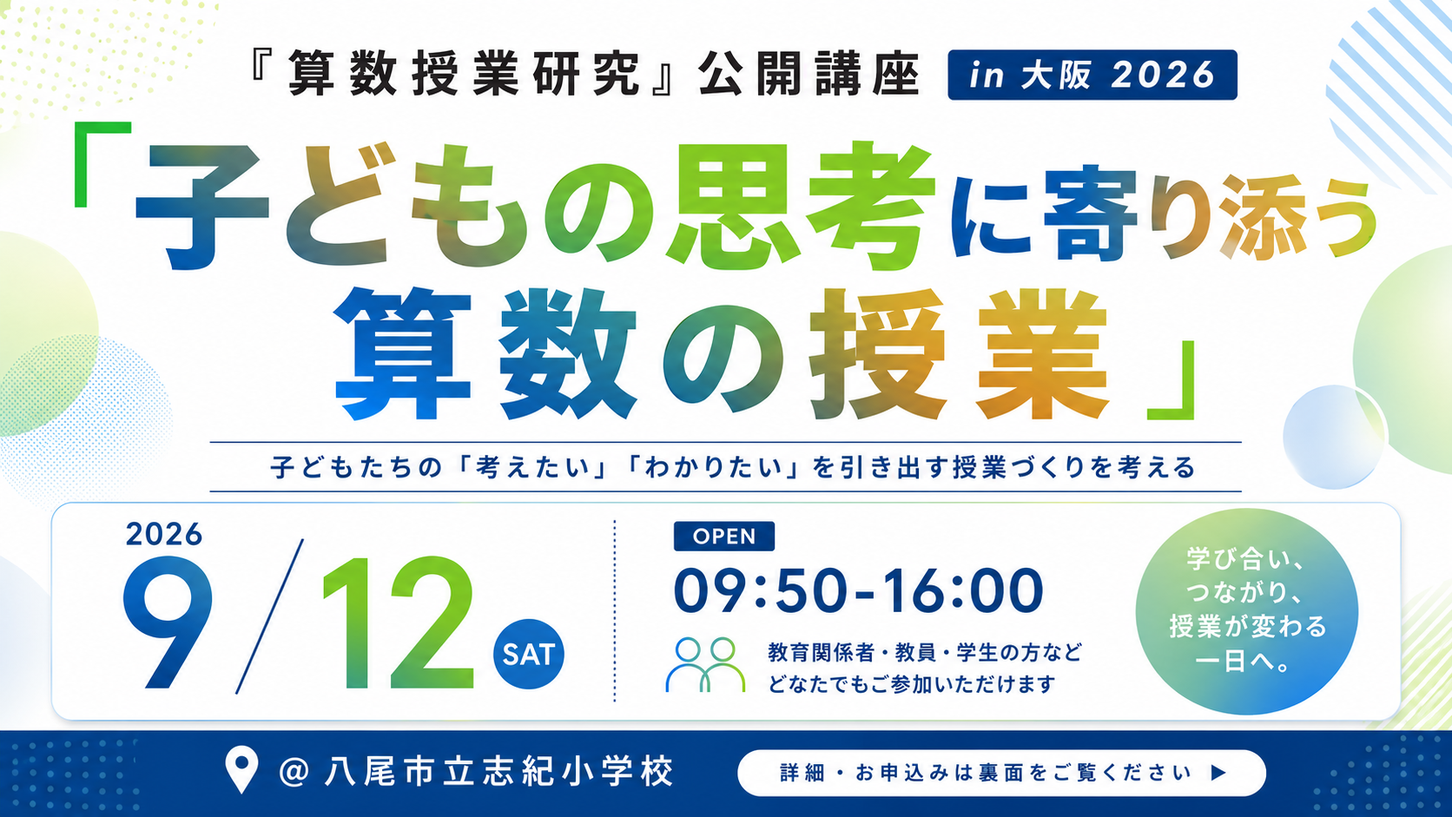
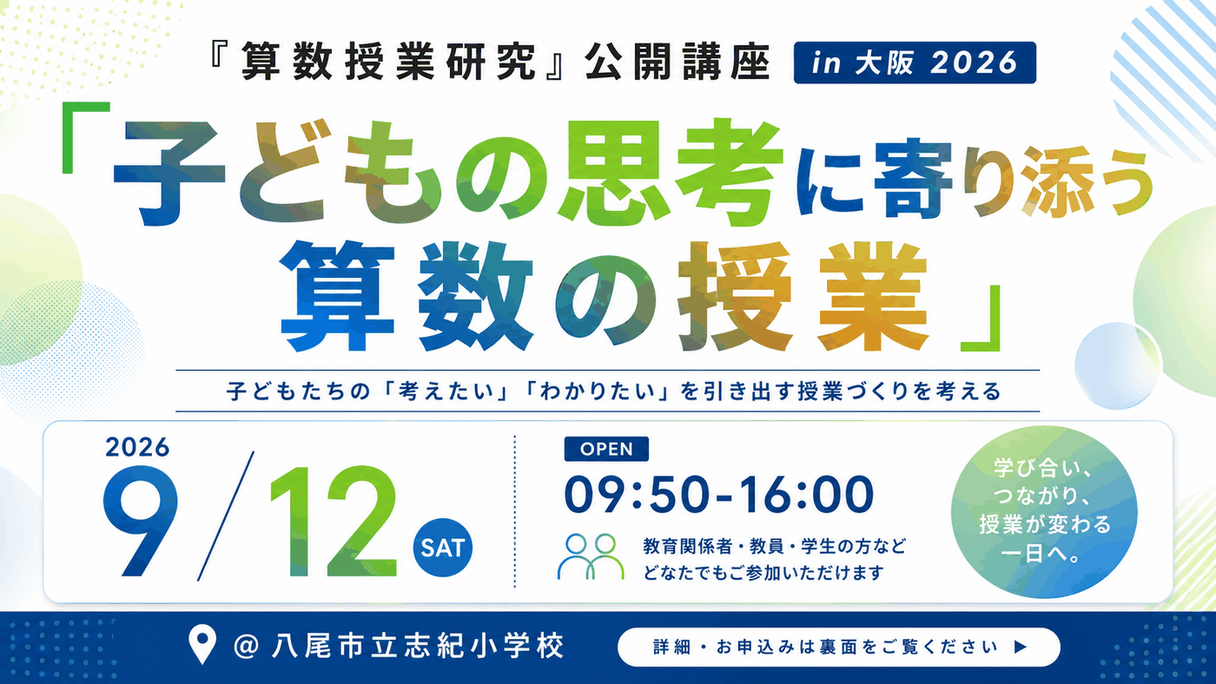
弱電波の会場向け読み込み改善（1）画像と外部リソース (#62)

diff --git a/index.html b/index.html
@@ -49,11 +49,26 @@
   <meta name="apple-mobile-web-app-capable" content="yes" />
   <meta name="apple-mobile-web-app-status-bar-style" content="black-translucent" />
 
-  <!-- Webフォント（Zen Kaku Gothic New）。SWでキャッシュしオフライン時はシステムフォントに劣化 -->
+  <!-- 会場の細い回線では DNS＋TCP＋TLS の確立がいちばん高くつくので、
+       あとで必ず使うホストは先に繋いでおく。preconnect は同時に張りすぎると逆効果なので、
+       描画をブロックする 2 ホスト（フォント CSS と Tailwind）だけに使い、
+       画像ホスト（favicon・書影）は軽い dns-prefetch に留める。 -->
   <link rel="preconnect" href="https://fonts.googleapis.com" />
   <link rel="preconnect" href="https://fonts.gstatic.com" crossorigin />
-  <!-- DotGothic16 はマスコットの吹き出し専用（ドット絵と粒を合わせるため）。本文は Zen Kaku Gothic New -->
-  <link href="https://fonts.googleapis.com/css2?family=Zen+Kaku+Gothic+New:wght@400;500;700;900&family=DotGothic16&display=swap" rel="stylesheet" />
+  <link rel="preconnect" href="https://cdn.tailwindcss.com" />
+  <link rel="dns-prefetch" href="https://www.toyokan.co.jp" />
+  <link rel="dns-prefetch" href="https://m.media-amazon.com" />
+  <link rel="dns-prefetch" href="https://images-na.ssl-images-amazon.com" />
+
+  <!-- Webフォント（Zen Kaku Gothic New）。SWでキャッシュしオフライン時はシステムフォントに劣化。
+       DotGothic16 はマスコットの吹き出し専用（ドット絵と粒を合わせるため）。本文は Zen Kaku Gothic New。
+       media="print" → onload で all に戻すのは「描画をブロックさせない」ための定石。
+       display=swap があるので本文はシステムフォントで即出て、届いた時点で差し替わる。 -->
+  <link rel="stylesheet" media="print" onload="this.media='all'"
+    href="https://fonts.googleapis.com/css2?family=Zen+Kaku+Gothic+New:wght@400;500;700;900&family=DotGothic16&display=swap" />
+  <noscript>
+    <link rel="stylesheet" href="https://fonts.googleapis.com/css2?family=Zen+Kaku+Gothic+New:wght@400;500;700;900&family=DotGothic16&display=swap" />
+  </noscript>
 
   <!-- Tailwind CSS (Play CDN) — 要件によりCDN読込。SWでキャッシュしオフライン対応 -->
   <script src="https://cdn.tailwindcss.com/3.4.17"></script>
@@ -627,7 +642,7 @@
       <div>
         <h3 class="text-sm font-semibold text-slate-600 mb-2">会場マップ</h3>
         <div class="bg-white border border-slate-200/80 rounded-2xl overflow-hidden shadow-card">
-          <img id="venueMap" alt="会場マップ" class="w-full" />
+          <img id="venueMap" alt="会場マップ" loading="lazy" decoding="async" class="w-full" />
           <p id="venueNote" class="text-xs text-slate-600 p-3 leading-relaxed"></p>
         </div>
       </div>
@@ -1091,6 +1106,41 @@
       } catch (e) {
         return "#";
       }
+    };
+    // 書影を表示枠に見合った小さい派生画像へ向け直す。
+    // JSON にはフルサイズ（1200px 幅・_SL1500_ 等）の URL が入っているが、実際の表示枠は
+    // 64×96 CSS px しかない。会場の細い回線では、これが 20 枚以上並ぶと支配的なコストになる。
+    // JSON は書き換えず描画時に付け替えるので、既存・将来のイベント全部に効く。
+    // 未知のホストや想定外の形は**そのまま返す**（外部 CDN の仕様に賭けない）。
+    // 派生 URL が 404 のときは renderBooks() が元の URL で一度だけ retry する。
+    const coverUrl = (url, px) => {
+      const s = typeof url === "string" ? url.trim() : "";
+      if (!s) return s;
+      try {
+        const u = new URL(s, location.href);
+        // Shopify（東洋館出版社のストア）: ?width= で任意サイズを配ってくれる
+        if (u.hostname.endsWith("toyokan.co.jp") && u.searchParams.has("width")) {
+          if (Number(u.searchParams.get("width")) <= px) return s;
+          u.searchParams.set("width", String(px));
+          return u.href;
+        }
+        // Amazon 現行形式: /images/I/<id>._SL1500_.jpg の SL の数値が最長辺
+        if (u.hostname === "m.media-amazon.com") {
+          const p = u.pathname.replace(/\._SL\d+_\.(jpg|jpeg|png)$/i, `._SL${px}_.$1`);
+          if (p === u.pathname) return s;
+          u.pathname = p;
+          return u.href;
+        }
+        // Amazon 旧形式: /images/P/<isbn>.09.LZZZZZZZ.jpg（L=大 / M=中 / T=小）。
+        // 数値指定はできないので中サイズ（約160px）に落とす。
+        if (u.hostname === "images-na.ssl-images-amazon.com") {
+          const p = u.pathname.replace(/\.LZZZZZZZ\.(jpg|jpeg|png)$/i, ".MZZZZZZZ.$1");
+          if (p === u.pathname) return s;
+          u.pathname = p;
+          return u.href;
+        }
+      } catch (e) {}
+      return s;
     };
     // テーマを「メインテーマ―サブテーマ」の区切りで分割する（区切りが無ければ sub は空）。
     // 区切り記号はサブテーマ側の先頭に残す（原文の表記をそのまま活かすため）
@@ -2119,11 +2169,24 @@
           `</div>`;
         if (cover) {
           const img = el("img", "img-fade w-16 h-24 object-cover rounded-lg flex-shrink-0 ring-1 ring-slate-200");
-          img.src = safeUrl(cover);
+          const full = safeUrl(cover);
+          // 表示は 64×96 なので DPR3 でも 192px あれば足りる。240 で少し余裕を持たせる
+          img.src = coverUrl(full, 240);
           img.alt = "";
           img.loading = "lazy";
+          // Tailwind のクラスでも枠は取れるが、CSS が届く前のレイアウトシフトを防ぐため属性でも持つ
+          img.width = 64;
+          img.height = 96;
           img.addEventListener("load", () => img.classList.add("is-loaded"));
-          img.addEventListener("error", () => { img.outerHTML = placeholder; });
+          img.addEventListener("error", () => {
+            // 縮小版が無い／仕様が変わった場合に備え、元の URL で一度だけやり直してから諦める
+            if (img.src !== full && !img.dataset.retried) {
+              img.dataset.retried = "1";
+              img.src = full;
+              return;
+            }
+            img.outerHTML = placeholder;
+          });
           // キャッシュ済みで load が発火しない場合に備え即時判定
           if (img.complete && img.naturalWidth > 0) img.classList.add("is-loaded");
           card.insertAdjacentElement("afterbegin", img);
@@ -2191,7 +2254,10 @@
       const rows = [];
       if (image) {
         rows.push(
-          `<img src="${escapeHtml(safeUrl(image))}" alt="${escapeHtml(title)}" loading="lazy" class="w-full max-h-72 object-cover" style="object-position:50% 18%" onerror="this.remove()" />`
+          // aspect-[2/1] で先に高さを確保する。width/height 属性は使えない——バナーの実寸は
+          // イベントごとに違い（1400×685 と 1400×788）、汎用シェルに固有の数値は持てないため。
+          // 比率を固定しておけば画像が届く前に箱が決まり、下の本文が飛ばない（object-cover で収める）。
+          `<img src="${escapeHtml(safeUrl(image))}" alt="${escapeHtml(title)}" loading="lazy" decoding="async" class="w-full aspect-[2/1] max-h-72 object-cover" style="object-position:50% 18%" onerror="this.remove()" />`
         );
       }
       const body = [];

diff --git a/sw.js b/sw.js
@@ -10,7 +10,7 @@
  * 注意: アプリのロジック更新時は CACHE_VERSION を上げること。
  */
 
-const CACHE_VERSION = "v104";
+const CACHE_VERSION = "v105";
 const CACHE_NAME = `t-pod-${CACHE_VERSION}`;
 
 // 16進カラー（#rgb / #rgba / #rrggbb / #rrggbbaa）判定

diff --git a/scripts/optimize_images.py b/scripts/optimize_images.py
@@ -1,0 +1,145 @@
+#!/usr/bin/env python3
+"""次回イベントバナーを配信向けに軽量化する。
+
+会場の細い回線で開かれる前提のサイト（README 参照）なので、告知バナーのような
+大きな画像は「表示枠に必要なだけ」の解像度に落としてから配信する。
+
+対象と方針は TARGETS で宣言する。生成物はリポジトリにコミットするので
+（`build_fuseneko.py` と同じ作法）、元画像を差し替えたらこのスクリプトを
+実行し直すこと。
+
+  python3 scripts/optimize_images.py           # 生成して差分を報告
+  python3 scripts/optimize_images.py --check   # 生成せず、要更新かどうかだけ見る（CI 向け）
+
+なぜ 2 通りの出力先があるか:
+  - webp: 現行イベント。JSON の image を .webp に向けられるので最小サイズを取れる。
+  - png : 終了済みイベント。JSON を編集しない規約（CLAUDE.md）なので、
+          ファイル名と拡張子を保ったまま中身だけ軽くする。
+"""
+
+from __future__ import annotations
+
+import argparse
+import sys
+from pathlib import Path
+
+try:
+    from PIL import Image
+except ModuleNotFoundError as exc:  # pragma: no cover - 実行環境の問題
+    raise SystemExit(
+        "Pillow が必要です。python -m pip install -r requirements-tools.txt を実行してください。"
+    ) from exc
+
+try:  # Windows の cp932 端末でも UTF-8 で出力する
+    sys.stdout.reconfigure(encoding="utf-8")
+    sys.stderr.reconfigure(encoding="utf-8")
+except (AttributeError, ValueError):
+    pass
+
+ROOT = Path(__file__).resolve().parents[1]
+
+# 表示枠は index.html の `w-full max-h-72 object-cover`。本文の最大幅が 672px なので
+# DPR3 でも 2016px あれば足りるが、バナーは object-cover で上下が切られる帯であり、
+# 実際に見えるのは横 672px ぶん。1400px あれば DPR2 で等倍、DPR3 でも粗さは出ない。
+MAX_WIDTH = 1400
+
+TARGETS = (
+    # (元画像, 出力先, 形式, 品質)
+    # 全算研2026（開催中）: JSON の nextEvent.image を .webp に向けている
+    (
+        "assets/next-event-2026-zensanken-37.png",
+        "assets/next-event-2026-zensanken-37.webp",
+        "WEBP",
+        82,
+    ),
+    # 算数サマーフェス2026（終了済み）: JSON を触らない規約なので同名 PNG を上書きする
+    (
+        "assets/next-event-2026-math-summer-fes.png",
+        "assets/next-event-2026-math-summer-fes.png",
+        "PNG",
+        None,
+    ),
+)
+
+
+def _load_rgb(path: Path) -> Image.Image:
+    """元画像を RGB で開く（バナーに透過は無い前提。あっても白で合成する）。"""
+    img = Image.open(path)
+    if img.mode in ("RGBA", "LA", "P"):
+        img = img.convert("RGBA")
+        flat = Image.new("RGB", img.size, (255, 255, 255))
+        flat.paste(img, mask=img.split()[-1])
+        return flat
+    return img.convert("RGB")
+
+
+def _resized(img: Image.Image, max_width: int) -> Image.Image:
+    """必要なときだけ縮小する（元が小さければ拡大しない）。"""
+    if img.width <= max_width:
+        return img
+    height = round(img.height * max_width / img.width)
+    return img.resize((max_width, height), Image.LANCZOS)
+
+
+def _save(img: Image.Image, dest: Path, fmt: str, quality: int | None) -> bytes:
+    """指定形式でエンコードしたバイト列を返す（まだ書かない）。"""
+    import io
+
+    buf = io.BytesIO()
+    if fmt == "WEBP":
+        # method=6 は最も遅いが最も小さい。生成は手元で一度きりなので速度は問わない。
+        img.save(buf, "WEBP", quality=quality, method=6)
+    else:
+        # PNG-24 のままだとグラデーションで巨大化する（縮小だけでは 1MB 級が残る）。
+        # 256 色へ量子化＋誤差拡散すると 1/3 になり、バナー程度の絵柄では
+        # 帯も文字のフチも目視で判別できない（実測して確認済み）。
+        pal = img.quantize(colors=256, method=Image.MEDIANCUT, dither=Image.FLOYDSTEINBERG)
+        pal.save(buf, "PNG", optimize=True, compress_level=9)
+    return buf.getvalue()
+
+
+def process(check_only: bool) -> int:
+    """TARGETS を処理し、更新が要る（あった）件数を返す。"""
+    changed = 0
+    for src_rel, dest_rel, fmt, quality in TARGETS:
+        src = ROOT / src_rel
+        dest = ROOT / dest_rel
+        if not src.exists():
+            print(f"スキップ（元画像が無い）: {src_rel}")
+            continue
+
+        before = src.stat().st_size
+        with _load_rgb(src) as img:
+            out = _save(_resized(img, MAX_WIDTH), dest, fmt, quality)
+
+        # 上書き対象（PNG）で既に十分小さいなら触らない。再実行で無駄な差分を作らない。
+        if dest.exists() and len(out) >= dest.stat().st_size:
+            print(f"変更なし: {dest_rel}（{dest.stat().st_size:,} B）")
+            continue
+
+        changed += 1
+        pct = 100 - len(out) * 100 // before
+        if check_only:
+            print(f"要更新: {dest_rel}（{before:,} B → {len(out):,} B / -{pct}%）")
+        else:
+            dest.write_bytes(out)
+            print(f"生成: {src_rel} → {dest_rel}（{before:,} B → {len(out):,} B / -{pct}%）")
+    return changed
+
+
+def main() -> int:
+    """コマンドライン入口。--check のときは要更新があれば exit 1。"""
+    parser = argparse.ArgumentParser(description="次回イベントバナーを軽量化する")
+    parser.add_argument(
+        "--check", action="store_true", help="生成せず、要更新かどうかだけ判定する"
+    )
+    args = parser.parse_args()
+    changed = process(args.check)
+    if args.check and changed:
+        print("最適化されていない画像があります。python3 scripts/optimize_images.py を実行してください。")
+        return 1
+    return 0
+
+
+if __name__ == "__main__":
+    raise SystemExit(main())

diff --git a/CLAUDE.md b/CLAUDE.md
@@ -23,6 +23,25 @@
 - **アイコン**: 絵文字は使わず **SVG（Lucide系）**。`ICONS` レジストリ + `icon(name, cls)` ヘルパ（`index.html`）。静的箇所（ボトムナビ・FAB・モーダル閉じる）はインラインSVG。
 - **マスコット（右下のふせんネコ）**: 造形の定義は **`assets/fuseneko/fuseneko-grid.js` の 1 箇所だけ**（24×24 の文字列配列 `FUSENEKO_BASE` ＋ 表情パッチ ＋ しっぽの振り）。`index.html` は `<script src>` でこれを読み、`buildCatSvg()` が待機アニメのコマを組む。配布用の SVG 資産（`assets/fuseneko/fuseneko-{base,standard,smile,serious}.svg`）は `scripts/build_fuseneko.py` が**同じ定義から生成する**ので手で編集しない（ずれたら `tests/test_fuseneko.py` が CI で落とす）。パッチは**セル単位で重ねられる**形式で、`_` は「下の絵を残す」・`.` は「透過にする」を意味する（`applyPatches()` が合成。しっぽの振りとまばたきを同じコマに同時適用できる）。塗り分けは **`--cat-base` / `--cat-fold` / `--cat-outline` / `--cat-face` / `--cat-cheek` の 5 変数**に集約し、既定値を `--brand` から `color-mix()` で作るのでイベント毎の `brandColor` に自動追従する（`fuseneko.js` の `fusenekoPalette()` が同じ比率を JS 側にも持つ。単体の SVG はフォールバック値を内蔵）。**黒に近い固定色は使わない**（重く見えるため）。ほっぺだけ固定のピンク。**24×24 のまま作り込む**（32×32 にすると 48px 表示で 1 ドット＝1.5px になり、DPR1 でドット幅が 1px/2px に割れる。整数比を保つには 64px 表示が必要で、ボトムナビ上の本文を圧迫する）。造形の決めごと（設定資料に合わせる。**色と表情以外は変えない**）: ①**胴体は col 1–17 / row 5–19 の 17×15**——ほぼ正方形でわずかに横長。幅を奇数にしてあるので中心は col 9 ちょうどで、顔の左右対称が整数で取れる。下辺は水平・左右は垂直・下の角は四角。②**右上は耳を立てず、ふせんの角を下へ折り返す**——top edge の先から `(14,6)(15,7)(16,8)(17,9)` と 1 ドットずつ階段状に切り落とし、内側を `S` で塗って row 9 の横線と col 12 の縦線で閉じる。大きな三角 1 枚にしない。ここがトレードマークなので省略しない。③左耳は col 1–4 / row 2–4 の小さな階段で、右と対称にしない。耳ぴく（`FN_EARS_DOWN`）も**左耳だけ**動かす（紙のフラップがぴくつくとおかしい）。④顔は**目＝1 ドット幅 × 3 ドット高の細い縦棒**（col 5 / col 13）、**口＝上段の 3 点（col 7 / 9 / 11）＋下段の 3 ドットの帯（col 8–10）**で ω を作る。**鼻はほっぺの色ではなく目・口と同じ濃色**（ピンクにすると猫に見えない）。ほっぺは 2×1 で輪郭に接触させない。⑤しっぽは**短く細い鉤形**——右辺の下（row 17）から真横へ出て col 20–21 で上へ折れ、row 13 で止まる。中身 1 ドット幅・全長は胴体の 1/3 程度。振り（`TAIL.up`/`down`）は**先端に 1 ドット足す／取る**だけで根元は動かさない。⑥**教科小物と番号バッジは載せない**——24px では小物に胴体左下の数ドット、バッジの数字に 3×3 しか取れず、どちらも何が描いてあるか判別できないため。表情は設定資料の 6 種（標準・にっこり・まじめ・うれしい・ひらめき・びっくり）を SVG 資産にしてあり、残り（まばたき・あくび・よそ見・耳ぴく・わくわく）は待機アニメ専用。**口を差し替えるパッチで row 14 をまとめて上書きしない**——鼻（col 9）ごと消えて猫に見えなくなる（`tests/test_fuseneko.py` が全表情で検査する）。**造形定義は外部ファイルなので、読み込みに失敗しても本文が死なないようにする**——`index.html` は `FN_OK` で通し、`setupMascot()` がマスコットだけ諦める。吹き出しの枠色（`mixWithBlack(…, 0.38)`）は `--cat-outline` と同じ比率にすること。造形の確認は `dev/fuseneko.html`（サイズ・表情・色・背景を並べる）。待機アニメは 16 コマのコマ送り（`#mascotStrip` の `translateX`）と、割り切れない周期の呼吸（`#mascotBob` の `translateY`。同一要素で `transform` を二重に持てないので入れ子にしている）を重ねる。**コマの中身は固定ではなく、`animationiteration` のたびに `shuffleCatFrames()` が選び直す**——`CAT_TAIL_TRACKS` からしっぽのリズムを 1 本引き、空きコマへ動きを置く。ふだんの動きは `CAT_ACCENTS`（まばたき／にっこり／びっくり／耳ぴく／よそ見〈左右〉／わくわく／あくび／うれしい／ひらめき）から 2〜3 個、**まれな来客**は `CAT_RARES`（ちょう／とり／ハート／おんぷ）から `CAT_RARE_CHANCE`（7%）で 1 周に最大 1 回。来客はコマ数が多いので先に場所を取る。重みは `CAT_ACCENT_POOL`/`CAT_RARE_POOL` で mood ごとに変える（終了後は「びっくり」を出さず、あくびとおんぷ中心）。動きは 1 要素＝1 コマぶんの**重ねるパッチ配列**なので、来客のようにコマごとに位置が変わるものも書ける（位置が動くパッチは `catRow()` で組み立てる）。**先頭コマには何も置かない**（周の切れ目で表情が飛び込まないように）。置き場所は空きが見つかるまで数回やり直す（1 回で諦めると 2 割強が衝突で消える）。しっぽのリズムは前周と別の 1 本を引く。つつかれたときは `reactCatFrames()` が先頭コマへ反応の絵を入れて**コマ送りを先頭から回し直す**（「いま何コマ目か」を調べずに済む。1 周後の `shuffleCatFrames()` が自然に元へ戻す）。**mood が変わると CSS が周期を差し替えるため、`restartCatAnim()` でコマ送りと呼吸を先頭から仕切り直す**——そのままだと累計経過の再解釈でコマが飛ぶ。16 コマの組み立ては 7ms 前後かかるので `requestAnimationFrame` で初回描画の後ろへ回し、組み上がってから `pop-in` で出す。差し替えは**コマ送りが先頭へ戻った瞬間**なので見た目が飛ばず、変わったコマだけ書き換える（SVG は `catSvgCache` で使い回す）。体の上下は**ふだん静止し、1 周に一度だけ 1 ドット短く沈む**（常時ゆれると「ぶれ」に見えて疲れるため）。沈んでいる時間は 1 周の 8% ほどなので、間隔が短めでも「ぶれ」には見えない。**間隔はほぼ一定**（`jitterCatBob()` が 1 回沈むごとに基準の ±12% で振り直す。既定 5 秒なら 4.4〜5.6 秒）にして規則正しい呼吸に見せ、たまに 2 回続けて沈む型（`catBob2`、12%）を混ぜる。**走行中に `animation-duration` を書き換えると「累計経過 ÷ 新しい周期」で回数が計算し直され、iteration がまとめて消化されて間隔 0 秒で何度も沈む**ので、`animation-name` を一度 `none` にして強制リフローしてから入れ直す。`prefers-reduced-motion` では作り替えない。**アニメーションイベントは親へ上がるので、リスナは必ず `e.animationName` で見分ける**（`#mascotStrip` の catIdle が `#mascotBob` にも届く）。吹き出しの文言と場面は `mascotState(now = new Date())` がイベントデータと現在時刻から算出する**純関数**で、`{ mood, lines }` を返す（`mascotLines(now)` は `lines` だけ返す薄いラッパー。`now` を渡せばコンソールから全分岐を確認できる）。`mood`（`before`/`today`/`live`/`after`/`ended`）は `#mascot` の `data-mood` に載せ、**CSS 側で待機アニメの速さだけを切り替える**（JS のタイマーは増やさない）。吹き出しもドット風で、**フォントは DotGothic16**（Google Fonts。吹き出し専用。ウェイトは 400 のみなので `font-bold` を当てない）、枠と三角のしっぽは `BUBBLE_FRAME`/`BUBBLE_ARROW` から `buildDotDataUri()` が data URI の SVG を作り、`--cat-frame`/`--cat-arrow` 経由で `border-image`（9スライス）と `background` に渡す。色はネコの輪郭と同じ計算（`mixWithBlack(resolvedBrand(), 0.6)`）。**data URI の SVG には `width`/`height` を必ず入れる**——固有サイズが無いと `border-image-slice` の数値が画像のドット数ではなく CSS ピクセル扱いになり 9 分割がずれる。表示は**イベントページのみ**で、`eventInfo.mascot: false` を置いたイベントでは出さない。文言は必ずデータから作り、`index.html` に固有文言を書かない（**キャラクター名 `CAT_NAME`＝「ふせんネコ」は例外**——イベント固有ではないので汎用シェルに置く）。**名前は隠し要素として `TAP_GAP_MS`（1.2 秒）以内に `TAPS_TO_INTRODUCE`（3 回）つつくと自分から名乗る**。名乗るときは吹き出しを強制的に開くので、折りたたみの 3 点セット（class・`aria-expanded`・localStorage）は `setupMascot()` の `setFolded()` を必ず通す。自己紹介は `mascotPinUntil`（`MASCOT_PIN_MS`＝8 秒）の間だけ 7 秒タイマーを休ませて残し、`mascotMsgs`/`mascotMsgIdx` は触らないので解除後は次の一言へ自然に戻る。`prefers-reduced-motion` では絵は変えずに文言だけ出す。名前は `#mascotBtn` の `aria-label`／`title` にも入れてある（画面に出る名前はこの 2 箇所だけ）。**ドラッグ（つまんで引っぱる）にも対応する**——`#mascotBtn`（コマ送り・呼吸）とは別に、外側の `#mascotHold` を 3 枚目の transform 層として持ち（同一要素で `transform` を二重に持てないのは他の入れ子と同じ理由）、`--mascot-dx`/`--mascot-dy`（CSS変数、`translate3d`）でずらす。位置は保存しない＝離すと必ず定位置へバネで戻る。ずらし量は**48px 表示＝1ドット2px に揃えて 2px 単位へ丸める**（他のドット表現と粒度を合わせる）。掴んでいる間は専用のコマ組み `CAT_HOLD`（しっぽを振るびっくり顔）を `holdCatFrames()` が 16 コマ全部に敷き、`shuffleCatFrames()` は `catHeld` フラグを見て待機の差し替えを止める。離すと `releaseCatFrames()` が `catHeld` を下ろし、待機アニメへ戻す。勢いよく払う（速度が `FLICK_V` を超える）と、新しい表情は作らず既存の `lookR`/`lookL`/`blink` の組み合わせだけで「目を回す」`dizzy` を `CAT_ACCENTS` に足して見せる（`CAT_ACCENT_POOL` には入れないので待機アニメには出ない）。**タブの左右スワイプ（`swipeEnabled()`）は `#mascotBtn` の上から始まった指を除外する**——除外しないとタブとネコが同じ指を取り合う。ただし `#mascotBtn` の `touch-action` は `none` ではなく **`pan-y`**（`#tabViews` と同じ値）にしてあるので、ネコの上から**縦**に払った指はブラウザの通常スクロールへ委ねられ、**横**に引いた指だけドラッグとして拾う（縦スクロールまで潰さない）。**`touch-action` だけでは足りず、JS 側にも軸判定（`DRAG_AXIS_RATIO`＝1.4、タブスワイプの `AXIS_RATIO` と同値）が要る**——ブラウザが「これは縦スクロールだ」と判断するのは数 px 動いた後で、`DRAG_MIN_PX`（6px）の閾値と競合する。軸判定が無いと、縦に払っただけで一瞬ネコが持ち上がり吹き出しが畳まれてから `pointercancel` で戻る、というちらつきが出る。縦優勢と判定した指は `pressedAt` を降ろして以降の `pointermove` を先頭で抜けさせる（押しっぱなし扱いで「なでる」が誤発火するのも防ぐ）。**隠し要素は他に 3 つ**: ①**長押し（`PET_HOLD_MS`＝0.6 秒、動かさずに押し続ける）で「なでる」**——`reactCatFrames("heart")` でハートの来客を確定で流す（`reactCatFrames()` は `CAT_ACCENTS[name] || CAT_RARES[name]` を引くので来客も同じ枠で流せる）。②**掴んで放すと吹き出しが「離す前の状態」へ静かに戻り**（畳む／保存はしない）、**勢いよく払うと目を回して一言残す**（`mascotPinUntil` で固定）。**なでる・ドラッグとも、離すと `click` が続けて飛んでくるので 1 回だけ捨てる**（`swallowClick`。捨てないと吹き出しが畳まれる／開閉が誤爆する。click が来ない離し方に備えて次の `pointerdown` でも下ろす）。ポインタ系のリスナはドラッグ判定も含めて `{ passive: true }` を保つ（`preventDefault()` は使わず `touch-action` と `setPointerCapture()` に任せる）。③**深夜・早朝の一言**（`withNightLine()`）——`mascotState()` の全分岐が通る `state()` を包んでいるので**足すのはここ 1 箇所だけ**。進行中（`live`）と文言が空のときは足さない。純関数のままなので `mascotLines(new Date("2026-08-01T02:00+09:00"))` で確認できる。**「素早く N 回」の数えは `makeTapCounter(times)` に集約**（`TAP_GAP_MS` 以内なら加算・達したら 0 に戻す）。`reactCatFrames()` は**知らない名前で呼ばれたら黙って返す**——`frames` が undefined のまま進むと例外で呼び出し元（吹き出しの開閉）ごと死ぬため。（**「ふせんネコ図鑑」は一度試作したが、静止 1 コマでは表情差分が分かりにくく削除した**。作るなら待機アニメと同じ複数コマのアニメで見せること。）
 - **PWA アイデンティティ（イベント毎・実行時生成）**: `applyAppIdentity()`（`index.html`）が、アプリ名＝`logoMain`（例: 全算研2026）、アイコン＝`brandColor` 地＋`logoMain` の先頭3文字（例: 全算研）を実行時生成し、`apple-touch-icon`（canvas で PNG 化）・`apple-mobile-web-app-title`・`document.title` を差し替える。**マニフェストは `eventInfo.manifestPath`（`events/<id>.webmanifest` 実体ファイル）があればそれを参照（最も確実・iOS でも安定）**。無ければ data URI で動的生成（`start_url`/`scope` は絶対 URL 化必須——相対だと data URI 上で無効になりブラウザが静的 `manifest.json` にフォールバックしてアプリ名が「タイムテーブル」になる）。`logoMain` 未指定イベントは静的 `manifest.json`/`assets/icon.svg` にフォールバック。なお `<head>` の inline script は `?id` が妥当なら**実体の有無に関わらず** `events/<id>.webmanifest` を貼るので（iOS がパース時に読むため必要）、**行き先の確定は `applyAppIdentityInner()` 側の責務**——`logoMain` 未指定や読み込み失敗のときに `setManifestHref()` で `manifest.json` へ戻さないと、404 のマニフェストが残り、Android では `beforeinstallprompt` が発火せず「ホーム画面に追加」の導線ごと出なくなる。favicon を差し替えるときは `href` だけでなく **`type` も一緒に更新する**（静的タグは `image/jpeg` 宣言なので、SVG data URI に替えると宣言と食い違いブラウザがアイコンを採用しないことがある）。ホーム画面追加の導線は `setupInstallPrompt()`（Android=`beforeinstallprompt`、それ以外=`openInstallHelp()` で手順案内）。**主要な流入は LINE 公式アカウントのキーワード応答なので、多くの人は LINE の in-app ブラウザで最初に開く**——そこでは `beforeinstallprompt` が発火せず、iOS の共有シートにも「ホーム画面に追加」が無いため、そのままでは追加できない。`isInAppBrowser()`（UA の `Line/` ほか）で判定し、①バナーを in-app でも出す（`showInstallBanner()` の早期 return に含めない。文言も「開き方」に切り替える）②`installHelpHtml()` が **in-app×Android / in-app×iOS / iOS Safari / その他** の 4 分岐で案内を出し分ける（Android は `chromeIntentUrl()` の `intent://…;package=com.android.chrome;S.browser_fallback_url=…` で Chrome を直接開く。iOS には同等の手段が無いので URL コピー＋手順）。**根本対策は LINE 側で配る URL に `openExternalBrowser=1` を付けること**（LINE 内ブラウザを経由せず端末の Chrome / Safari で開く。`docs/event-url-index.md` の「LINE配信用URL」列がこれを生成する）。LINE 友だち追加ポップアップは `isLineApp()` のとき出さない（キーワード応答から来た人はすでに友だち）。
+- **画像と転送量（会場の細い回線が前提）**: 自前のコードは軽い（`index.html` は gzip 53KB、
+  イベント JSON は 8.6KB）ので、**転送量のほぼ全部は画像と外部リソース**。ここを増やさない。
+  ①**告知バナーを原寸のままリポジトリに置かない**——表示枠は `w-full aspect-[2/1] max-h-72` で
+  最大 672×288 CSS px しかない。`scripts/optimize_images.py` が幅 1400px へ縮小し、現行イベントは
+  WebP、終了済みイベントは**同名 PNG のまま 256 色へ量子化**して書き出す（終了済みの JSON を
+  編集しない規約を守るため拡張子を変えられない）。元画像は再生成のためリポジトリに残すが配信はしない。
+  ②**書影は `coverUrl(url, px)` を通す**——JSON にはフルサイズ（`width=1200` / `_SL1500_` /
+  `LZZZZZZZ`）の URL が入っているが表示枠は 64×96 px。描画時に小さい派生へ付け替えるので
+  **JSON は書き換えない**。未知のホスト・想定外の形は素通しし、派生が 404 のときは
+  `renderBooks()` が元 URL で 1 回だけ retry してからプレースホルダーに落ちる（外部 CDN の
+  パラメータ仕様に賭けない）。③新しい `<img>` には `loading="lazy"` と**箱の確保**を必ず付ける。
+  バナーの実寸はイベントごとに違う（1400×685 と 1400×788）ので、汎用シェルに `width`/`height` の
+  数値は持てない——`aspect-[2/1]` で比率だけ固定する。④`<head>` のフォント CSS は
+  `media="print"` → `onload` で `all` に戻す形にして**描画をブロックさせない**（`display=swap` と
+  併せて本文は即出る）。接続確立が高くつくので `preconnect`（フォント・Tailwind）と
+  `dns-prefetch`（画像ホスト）を置くが、preconnect は張りすぎると逆効果なので増やさない。
+  なお **Tailwind Play CDN（約120KB gzip ＋実行時 JIT）が初回表示の最大のボトルネック**で、
+  同じ設定からローカルビルドすると 26KB まで落ちる。ビルド工程なしを優先して CDN のままにしてあるので、
+  やるなら生成物をコミットする方式（`build_fuseneko.py` と同じ作法）にすること。
 - **描画の安全性**: 文字列は必ず `escapeHtml()`（`index.html`）を通して DOM に入れる。
 - **DOM 生成ヘルパ**: `el(tag, class, html)` と `$(id)`（= `getElementById`）を再利用する。
 

diff --git a/progress.md b/progress.md
@@ -2,6 +2,64 @@
 
 このPWAの開発経緯・現状・残課題のログです。新しい作業を行ったら追記してください。
 
+## 2026-08-04 — 弱電波の会場向け読み込み改善（1）画像と外部リソース
+
+「電波の弱い会場でも速く出したい」という要望を受けて計測したところ、**問題は2系統**に分かれた。
+
+**バイト数**: 自前のコードは軽い（`index.html` gzip 53KB、`events/2026-zensanken-37.json` gzip 8.6KB）。
+転送量は **画像と外部リソースにほぼ全部集中**していた。
+
+| 資産 | 変更前 | 変更後 |
+| --- | --- | --- |
+| `assets/next-event-2026-zensanken-37.png/.webp` | 1,938,442 B | **124,542 B（-94%）** |
+| `assets/next-event-2026-math-summer-fes.png` | 1,921,617 B | **333,992 B（-83%）** |
+| 書影 22 枚（全算研） | 1200px 幅などのフルサイズ | 240px 幅の派生 |
+
+**待ち時間**: `sw.js` の `networkFirst()` はキャッシュを `.catch()` でしか見ない＝ハード失敗時だけで、
+「つながっているが遅い」ときは無限に待つ。`init()` も 10 秒 abort でキャッシュへ落ちないため、
+同じ JSON が手元にあるのにエラー画面を出す。**こちらは大会終了後に別 PR で直す**（下記「残課題」）。
+
+**今回入れた分（会期中に出せる安全な範囲）**——全算研2026 は 8/4-5 が本番で、
+`nextEvent.showFrom` が **8/5 13:00**＝2日目の午後に 1.9MB のバナーが会場で一斉に落ちてくる。
+そこで **Service Worker の挙動は変えず**（`CACHE_VERSION` を v105 に上げるのみ）、画像と `<head>` だけ直した。
+
+- `scripts/optimize_images.py` を追加。幅 1400px へ縮小し、**現行イベントは WebP**、
+  **終了済みイベントは同名 PNG のまま 256 色へ量子化**する（終了済みの JSON を編集しない規約を
+  守るため拡張子を変えられない）。冪等で、既に小さければ書かない。生成画像は目視確認済みで、
+  細い和文もグラデーションの帯も崩れていない。
+- `coverUrl(url, px)` を追加し `renderBooks()` から使う。Shopify は `width=240`、Amazon は
+  `_SL240_` / `MZZZZZZZ` へ。**JSON は無変更**なので既存・将来の全イベントに効く。
+  **派生が 404 のときは元 URL で 1 回だけ retry** してからプレースホルダーに落ちる
+  （外部 CDN のパラメータ仕様に賭けない）。書影に `width`/`height` 属性も付けた。
+- バナーの箱を `aspect-[2/1]` で確保。**`width`/`height` 属性は使えない**——実寸がイベントごとに
+  違い（1400×685 と 1400×788）、汎用シェルに固有の数値を持てないため。
+- フォント CSS を `media="print"` → `onload` で `all` に戻す形にして**描画をブロックさせない**。
+  ウェイト構成（400/500/700/900）は見た目を変えないため据え置き。`<noscript>` も置いた。
+- `preconnect` に `cdn.tailwindcss.com`、`dns-prefetch` に画像ホスト3つを追加。
+- 会場マップにも `loading="lazy"` / `decoding="async"`。
+
+**実測した結果**（Playwright。外部ホストはプロキシで遮断されるので `page.route()` で代替。
+**Service Worker が `page.route()` を迂回するので `serviceWorkers:'block'` が必要**だった）
+
+| ケース | 結果 |
+| --- | --- |
+| `coverUrl()` 単体（3系統＋既に小さい＋未知ホスト＋想定外の形＋空） | すべて期待どおり。素通しも確認 |
+| 書影・派生が正常 | 22枚とも派生URLで読み込み、retry 0 |
+| 書影・派生が404 | 22枚とも元URLで retry し、**22枚とも表示された**（退行なし） |
+| 書影・両方404 | 従来どおりプレースホルダー |
+| バナー | WebP が 356×178 で表示、横スクロールなし |
+
+Tailwind の実CSSをローカルビルド（実設定を抽出して 26KB）して差し込み、**見た目を実描画で確認**した。
+ついでの発見として、**Play CDN の約120KB gzip ＋実行時 JIT に対しローカルビルドは 26KB**。
+ビルド工程なしを優先して今回は CDN のままにしたが、将来の選択肢として CLAUDE.md に記録した。
+
+`validate_events.py` エラー0・警告0、テスト12件成功。
+
+**残課題（大会終了後・別PR）**: SW のキャッシュ分割（版付きシェル／長寿命ランタイム）と
+4経路化（版固定URLはキャッシュ優先／`events/*.json` はネットワーク優先／シェルは2.5秒でキャッシュ）、
+`handleNavigate` のブロッキング解消（`getBrandColor` をキャッシュ専用に）、
+`init()` のキャッシュ即座表示＋差分検出で静かに再描画。設計は検討済み。
+
 ## 2026-08-04 — LINE内ブラウザ前提の「ホーム画面に追加」導線に作り直し
 
 このサイトへの主要な流入は、**自社のLINE公式アカウントでキーワードを打つとURLが返る形式**
